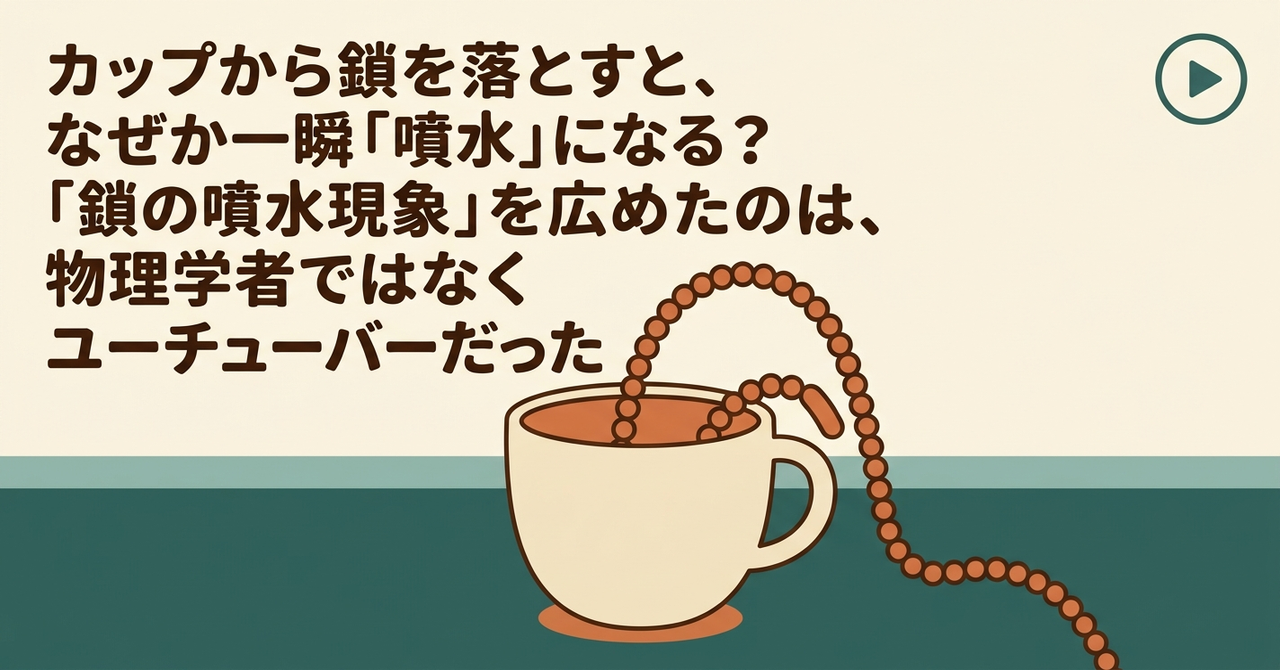
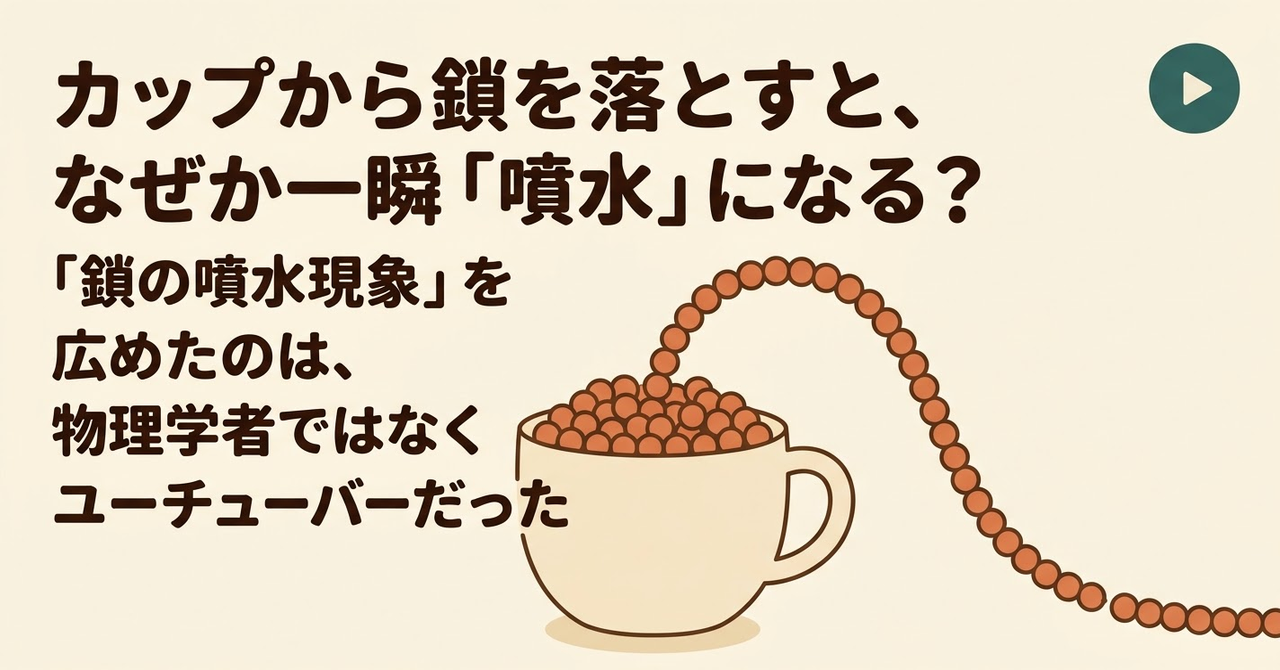
鎖の噴水: カバー・イラスト2を最終版で保存(画像3点すべて完了)
カバー: 落ちていく鎖を画面端でフレームアウトさせ影を消した修正版で
再生成。タイトル・ビーズの山盛り・単純な弧・丸いアイコンも良好。
1280x670で保存。

イラスト2: 山型のリンクの山・「押し返す力」の矢印(山の表面→持ち
上がるリンクの向き)・粒感のあるビーズいずれも仕様通り。消し跡等の
不具合も無し。1200x655で保存。

Claude-Session: https://claude.ai/code/session_01TWidCKxYRSv1cKMf351cv5

diff --git a/docs/gemini-image-prompts-kusari-no-funsui.md b/docs/gemini-image-prompts-kusari-no-funsui.md
@@ -12,15 +12,14 @@
 | 成果物 | 状態 |
 |---|---|
 | プロフィールアイコン | ✅ 既存の `profile/icon.png` をそのまま流用。作り直さない |
-| 記事カバー | ❌ 2回のOpus精査で不合格(旧タイトル文字列・YouTube風アイコン・縁付近の描画崩れ・カップ中身が
-  飲み物に見える)に加え、3回目はGemini側で連続生成が不安定になり画像を確保できず。簡略版プロンプトで
-  4回目を生成したところタイトル・ビーズ・アイコンは良好だったが、落ちていく鎖が床に着地して影までついて
-  しまった(まだ落下中に見えない)。プロンプトを再修正済み。再生成待ち(`covers/kusari-no-funsui.png`) |
-| 解説イラスト1(カップから鎖が噴水のように盛り上がる図) | ✅ 再修正版で生成・保存・確認済み
+| 記事カバー | ✅ 5回目の生成で解消。タイトル・ビーズの山盛り・単純な弧・丸いアイコン・画面端でのフレームアウト
+  (影無し)すべて確認済み(`covers/kusari-no-funsui.png`、1280×670) |
+| 解説イラスト1(カップから鎖が噴水のように盛り上がる図) | ✅ 生成・保存・確認済み
   (`illustrations/kusari-no-funsui-01.png`、1200×655)。液体様の覗き色・二重ループとも解消。 |
-| 解説イラスト2(山積みのリンクが押し返す力の図解) | ❌ Opus精査で不合格(矢印修正の消し跡が残っていた、持ち上がる部分が
-  粒感の無い滑らかな線でイラスト1との統一性が無かった)。プロンプトを修正済み。再生成待ち
-  (`illustrations/kusari-no-funsui-02.png`) |
+| 解説イラスト2(山積みのリンクが押し返す力の図解) | ✅ 生成・保存・確認済み(`illustrations/kusari-no-funsui-02.png`、
+  1200×655)。矢印の向き・消し跡・粒感の統一いずれも問題なし |
+
+3点とも生成完了。次は Opus QA(`note-qa`)による最終精査。
 
 生成後、下記「生成後のチェックリスト」に沿って検証し、Opus QA(`note-qa`)にかけること。
 
